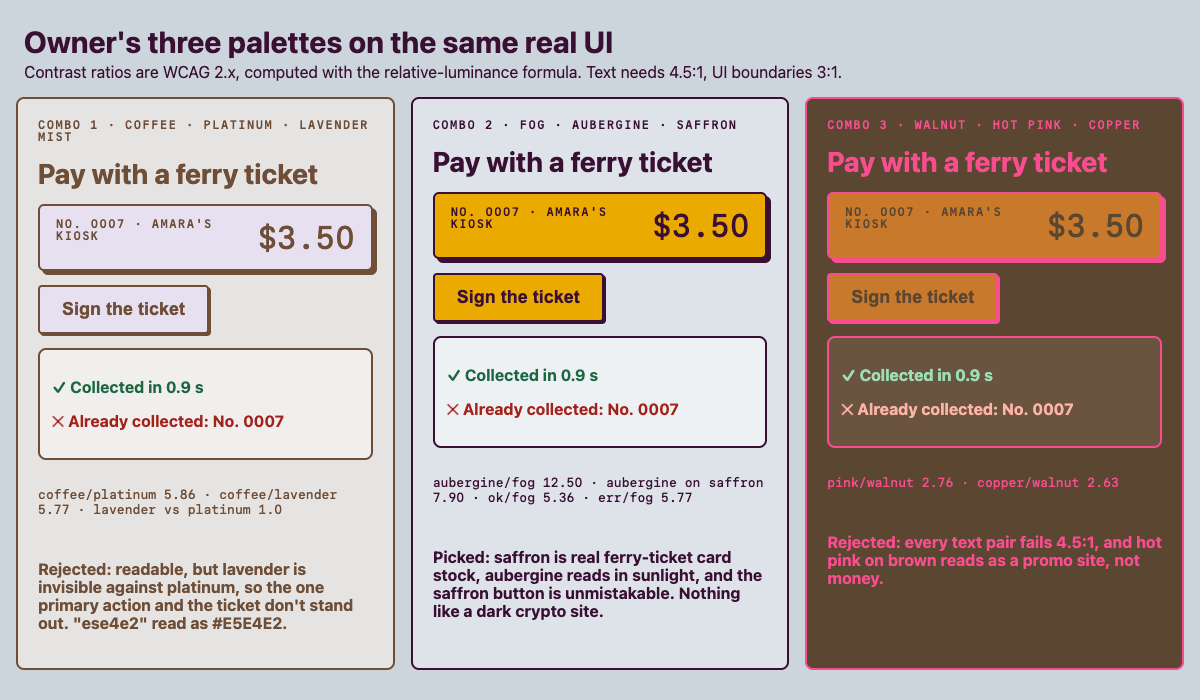
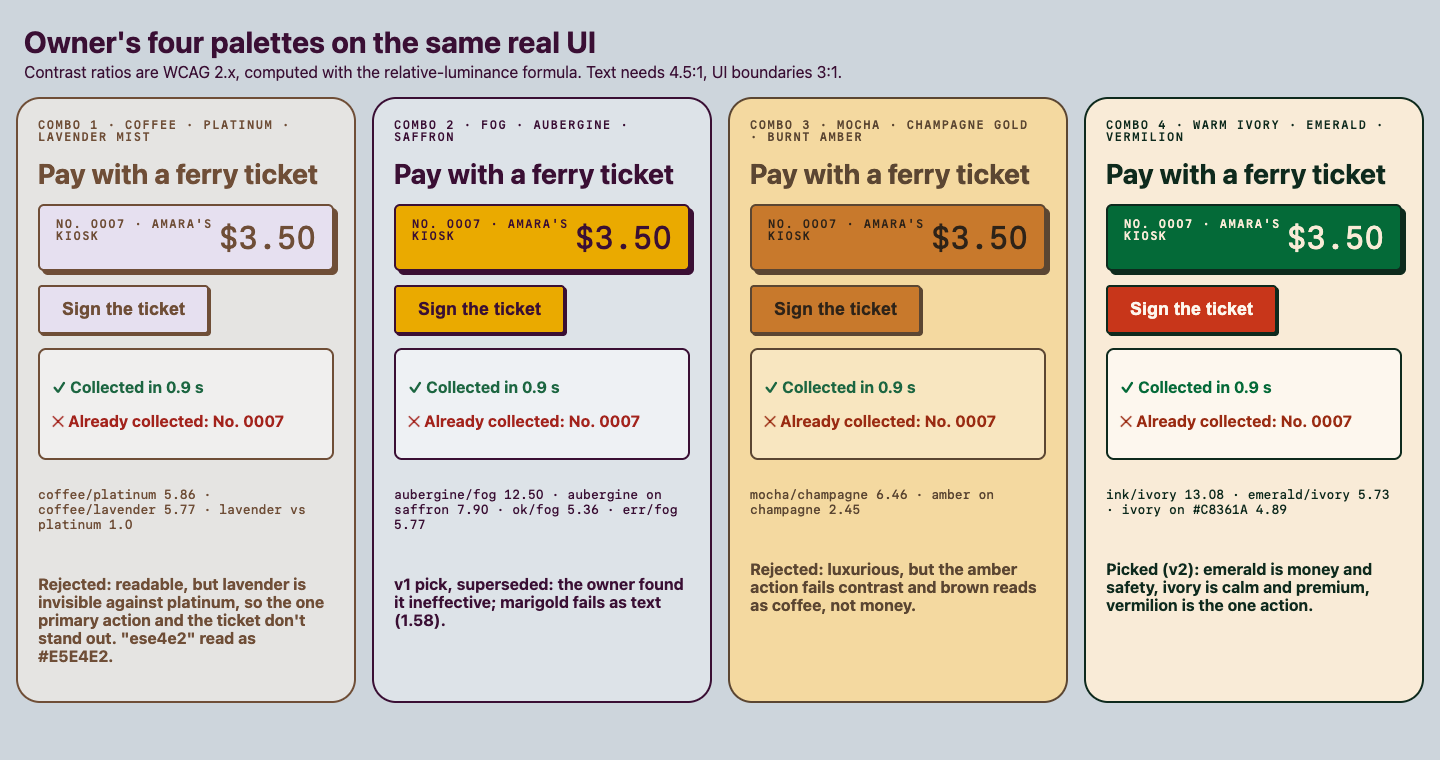
Redesign v2: persona brief, 4-combo swatch page, BRAND and references notes

diff --git a/design/swatches.html b/design/swatches.html
@@ -8,11 +8,14 @@
   @font-face { font-family: "Paper Mono"; src: url("../public/fonts/PaperMono.woff2") format("woff2"); font-weight: 100 800; }
   body { margin: 0; font-family: system-ui, sans-serif; background: #CDD5DC; color: #3A0F34; }
   h1 { font-size: 30px; margin: 24px 24px 4px; } .sub { margin: 0 24px 16px; }
-  .grid { display: grid; grid-template-columns: repeat(auto-fit, minmax(320px, 1fr)); gap: 16px; padding: 0 16px 24px; }
+  .grid { display: grid; grid-template-columns: repeat(auto-fit, minmax(280px, 1fr)); gap: 16px; padding: 0 16px 24px; }
   .pal { background: var(--base); color: var(--ink); border: 2px solid var(--ink); border-radius: 8px; padding: 20px; display: flex; flex-direction: column; gap: 14px; }
   .c1 { --base:#E5E4E2; --surface:#F0EFEE; --ink:#6F4E37; --accent:#E6E0F0; --on:#6F4E37; --ok:#1C6641; --err:#A3231C; }
   .c2 { --base:#DDE3E8; --surface:#EEF1F4; --ink:#3A0F34; --accent:#EAAA00; --on:#3A0F34; --ok:#1C6641; --err:#A3231C; }
-  .c3 { --base:#5B4632; --surface:#6A5440; --ink:#FA4D90; --accent:#C8792C; --on:#5B4632; --ok:#9BE0B4; --err:#FFB4A8; }
+  .c3 { --base:#F4D9A0; --surface:#F8E6C0; --ink:#5B4632; --accent:#C8792C; --on:#2E2318; --ok:#1C6641; --err:#9A2B12; }
+  .c4 { --base:#F9EBD7; --surface:#FDF7EE; --ink:#0E2A1D; --accent:#C8361A; --on:#FDF7EE; --ok:#046A38; --err:#9A2B12; }
+  .c4 .ticket { background:#046A38; color:#F9EBD7; }
+  .pal { border-radius: 24px; } .ticket, .btn { border-radius: 16px; } .btn { border-radius: 999px; box-shadow:none; border:0; }
   .label { font: 600 12px/1 "Paper Mono", monospace; letter-spacing: .12em; text-transform: uppercase; }
   h2 { margin: 0; font-size: 28px; }
   .ticket { background: var(--accent); color: var(--on); border: 2px solid var(--ink); border-radius: 6px; padding: 12px 16px; display: flex; justify-content: space-between; box-shadow: 4px 4px 0 var(--ink); }
@@ -25,7 +28,7 @@
 </style>
 </head>
 <body>
-<h1>Owner's three palettes on the same real UI</h1>
+<h1>Owner's four palettes on the same real UI</h1>
 <p class="sub">Contrast ratios are WCAG 2.x, computed with the relative-luminance formula. Text needs 4.5:1, UI boundaries 3:1.</p>
 <div class="grid">
   <section class="pal c1">
@@ -44,16 +47,25 @@
     <button class="btn">Sign the ticket</button>
     <div class="card"><p class="ok">✓ Collected in 0.9 s</p><p class="err">✕ Already collected: No. 0007</p></div>
     <p class="ratio">aubergine/fog 12.50 · aubergine on saffron 7.90 · ok/fog 5.36 · err/fog 5.77</p>
-    <p class="verdict">Picked: saffron is real ferry-ticket card stock, aubergine reads in sunlight, and the saffron button is unmistakable. Nothing like a dark crypto site.</p>
+    <p class="verdict">v1 pick, superseded: the owner found it ineffective; marigold fails as text (1.58).</p>
   </section>
   <section class="pal c3">
-    <span class="label">Combo 3 · walnut · hot pink · copper</span>
+    <span class="label">Combo 3 · mocha · champagne gold · burnt amber</span>
     <h2>Pay with a ferry ticket</h2>
     <div class="ticket"><span class="label">No. 0007 · Amara's kiosk</span><span class="amount">$3.50</span></div>
     <button class="btn">Sign the ticket</button>
     <div class="card"><p class="ok">✓ Collected in 0.9 s</p><p class="err">✕ Already collected: No. 0007</p></div>
-    <p class="ratio">pink/walnut 2.76 · copper/walnut 2.63</p>
-    <p class="verdict">Rejected: every text pair fails 4.5:1, and hot pink on brown reads as a promo site, not money.</p>
+    <p class="ratio">mocha/champagne 6.46 · amber on champagne 2.45</p>
+    <p class="verdict">Rejected: luxurious, but the amber action fails contrast and brown reads as coffee, not money.</p>
+  </section>
+  <section class="pal c4">
+    <span class="label">Combo 4 · warm ivory · emerald · vermilion</span>
+    <h2>Pay with a ferry ticket</h2>
+    <div class="ticket"><span class="label">No. 0007 · Amara's kiosk</span><span class="amount">$3.50</span></div>
+    <button class="btn">Sign the ticket</button>
+    <div class="card"><p class="ok">✓ Collected in 0.9 s</p><p class="err">✕ Already collected: No. 0007</p></div>
+    <p class="ratio">ink/ivory 13.08 · emerald/ivory 5.73 · ivory on #C8361A 4.89</p>
+    <p class="verdict">Picked (v2): emerald is money and safety, ivory is calm and premium, vermilion is the one action.</p>
   </section>
 </div>
 </body>

diff --git a/design/BRAND.md b/design/BRAND.md
@@ -23,24 +23,14 @@ Design translation:
 - serial-numbered tickets for vouchers;
 - one red sail for the one primary action.
 
-## Palette (redesign, 2026-11-08): owner combo 2, "Fog · Aubergine · Saffron"
-Swatch page with all three owner combos on the same real UI: `design/swatches.html` (screenshot `design/after/swatches.png`).
-
-| Combo | Colours | Verdict |
-|---|---|---|
-| 1 | coffee #6F4E37 · platinum #E5E4E2 (owner wrote "ese4e2") · lavender mist #E6E0F0 | Rejected. Lavender on platinum is 1.01:1, so the primary action and the ticket vanish. |
-| **2** | **fog #DDE3E8 · aubergine #3A0F34 · saffron #EAAA00** | **Picked.** Saffron is real ferry-ticket card stock. Aubergine on fog is 12.5:1, aubergine on saffron 7.9:1. Readable in daylight, nothing like a dark crypto site. |
-| 3 | walnut #5B4632 · hot pink #FA4D90 · copper #C8792C | Rejected. Pink on walnut is 2.76:1 and copper 2.63:1, and it reads as a promo site. |
-
-Tokens (`design/tokens.css`): base fog · surface #EEF1F4 (lifted fog) · sunk #CDD5DC · ink aubergine · muted #5C4A5A (6.28:1) · accent saffron, with aubergine text on it · ok #1C6641 (5.36:1) · err #A3231C (5.77:1) · night = aubergine, with on-night = fog.
-Rules: saffron is only ever a fill (as text on fog it's 1.58:1). Warnings are ink plus a "!" mark, never a fourth hue. No #FFFFFF or #000000.
-
-**Superseded:** palette A "Admiralty chart" (paper #F3EBDD / river ink #11313A / red-oxide sail #B0432A), with Fraunces, Instrument Sans and IBM Plex Mono.
-
-## Type (redesign)
-- **Display: Bricolage Grotesque** at 78% width and weight 800. A condensed, slightly quirky grotesque, like a printed ferry notice. OFL, via next/font.
-- **Text: Atkinson Hyperlegible Next.** Made for low-vision readers, so it suits a first-time user on a phone at a market stall. Body 17 px, lead 19 px. OFL.
-- **Mono: Paper Mono** (paper.design, OFL 1.1, self-hosted at `public/fonts/PaperMono.woff2`) for every amount, serial, label and all the ASCII art.
+## Palette, type and buttons (redesign v2, 2026-11-08): owner combo 4, "Ivory · Emerald · Vermilion"
+Full reasoning, the references and the persona brief: `design/persona-brief.md`. Swatch page with all four owner combos: `design/swatches.html`.
+- Core: warm ivory #F9EBD7 · emerald #046A38 · vermilion #E34222. Derived: ivory-50 #FDF7EE (cards), ivory-200/300 (wells, hairlines), ink #0E2A1D, action vermilion #C8361A (ivory text 4.89:1), err #9A2B12.
+- Type: Geist (one family) + Paper Mono for numbers and ASCII. Sentence case.
+- Buttons: a vermilion pill with an arrow chip (one per screen). Secondary is an ivory pill with a hairline.
+- Surfaces: flat ivory cards, 24 px radius, hairline all the way round, soft tactile shadow. The only gradient is on the hero heading text.
+- Tickets: emerald card stock like a banknote, with a vermilion COLLECTED stamp.
+- Superseded the same day: v1 fog/aubergine/saffron with Bricolage and Atkinson. Before that: palette A "Admiralty chart".
 
 ## ASCII animation
 Pure text frames in Paper Mono (`app/components/ascii.tsx`, frames in `ascii-frames.ts`, tested). They run on requestAnimationFrame at 10–30 fps, pause off-screen, render one static frame under reduced motion, and are aria-hidden with a text alternative.
@@ -55,7 +45,7 @@ Pure text frames in Paper Mono (`app/components/ascii.tsx`, frames in `ascii-fra
 - Motion: a boat on calm water. 120/200/320 ms, ease `cubic-bezier(.2,.8,.2,1)`, no bounce. The only loop is Doggett's three waiting dots (1.2 s). Everything goes static under `prefers-reduced-motion`.
 
 ## Mascot: Doggett
-- **Who:** Doggett, a chubby little Thames wherry with an aubergine hull, a saffron sail and stripe, big eyes with highlights, and a saffron blush (redrawn 2026-11-08).
+- **Who:** Doggett v2: a soft cream plush ferryman (fur texture, smooth face patch, dot eyes, vermilion blush) sitting in a little emerald wherry with a vermilion pennant. Inspired by the Meta Muse plush style the owner shared; hand-built SVG.
 - **Name:** from *Doggett's Coat and Badge*, the race for young Thames watermen rowed every year since 1715, the oldest rowing race in the world.
 - **Personality:** unflappable, cheerful, a little proud of always getting across. Doggett never panics in the dark; it just keeps rowing.
 - **Why it fits:** the product's job is getting money safely across a gap (the outage). A tiny, sturdy ferry that keeps going when the lights are out is the promise in one picture. It's simple enough to read at 32 px: hull, sail, two eyes.

diff --git a/design/persona-brief.md b/design/persona-brief.md
@@ -1,0 +1,32 @@
+# Redesign v2: brief for each persona (2026-11-08, after owner feedback)
+
+The owner's feedback on v1: the buttons and the overall feel weren't modern or premium, the colours weren't well chosen, and the references weren't really used. v2 restarts the visual language from the references below. Logic is unchanged.
+
+## The references, and what each one is used for
+| Reference | Used for |
+|---|---|
+| Paper Mono (`~/Downloads/paper-mono-v1.000`, the same v1.000 we self-host at `public/fonts/PaperMono.woff2`, OFL) | Every amount, serial, code and the ASCII river. Nothing else. |
+| Rare UI `fluid-orb` (`npx shadcn add swamimalode07/rare-ui/fluid-orb`) | Landing hero: a WebGL emerald orb behind Doggett. Vendored as `app/components/fluid-orb.tsx` (`cn` replaced by a plain join so no new deps). Its licence (MIT + Commons Clause + attribution) is honoured with a footer credit. |
+| elaya `ai-design-skills` (`landing-page-design`, `figma-designer`) | Rules: one typeface plus a mono for data; Tailwind type, spacing and radius scale; nested radius = outer - gap; flat surfaces; the only gradient is on the hero heading text; one accent under 80% saturation; borders all the way round or none; no eyebrow tags; no three equal cards; sentence case; Default/Hover/Pressed/Focus/Disabled states for buttons; contrast 4.5:1 for text and 3:1 for UI. |
+| Dribbble, crypto animation | Character-led 3D objects floating over soft colour fields, with depth and light. That's the hero composition: orb, plush mascot, and a real ticket drifting in front. No neon, no dark glow. |
+| Figma, web design trends 2026 | Taken: 3D and WebGL (orb), bold typography (72-96 px Geist hero), motion (float, ticket print, stamp), tactile soft UI for fintech (soft shadows on ivory cards), gamified feel (Play). Rejected for money: neo-brutalism (v1's hard offsets, now gone), retrofuturism neon, collage. |
+| Meta Muse mascot (owner image) | Doggett v2: a soft cream plush body with fur texture, a smooth face patch, dot eyes with highlights, a blush, simple limbs. He sits in a little emerald wherry with a vermilion pennant. |
+
+## Palette: owner combo 4, Warm Ivory #F9EBD7 · Emerald #046A38 · Vermilion #E34222
+- **[Brand designer]:** emerald says money and safe (a banknote), ivory says calm and premium and matches the plush mascot, vermilion is the one call to action. Of the four combos, this is the only one with a natural money colour and a natural action colour that don't fight.
+- Contrast: ink #0E2A1D on ivory 13.08:1. Emerald on ivory 5.73:1, both ways. Vermilion #E34222 with ivory text is only 3.53:1, so per the elaya rule the button uses the deeper vermilion #C8361A (4.89:1). The bright #E34222 is kept for stamps, the pennant and blush.
+- Rejected: combo 1 (mocha, platinum, lavender): lavender on platinum is 1.01:1, so there's no visible action. Combo 2 (ice silver, aubergine, marigold) was v1; the owner found it ineffective, and marigold fails as text (1.58:1). Combo 3 (mocha #5B4632, champagne gold #F4D9A0, burnt amber #C8792C): luxurious, but amber on champagne is 2.45:1 and brown reads as coffee, not money.
+
+## Type
+**[Brand designer]** Geist for everything (a single family, as elaya asks), Paper Mono for numbers. Headlines are Geist 600 at -0.035em, 48-96 px. Body is 16-20 px. Sentence case everywhere: v1's shouty uppercase mono labels are gone.
+
+## Buttons ([UI designer])
+- Primary: a vermilion pill, 48 px, Geist 600 16 px, with a round ivory arrow chip that slides 3 px on hover. Hover darkens and lifts. Press scales to 98%. Disabled is 45% opacity. Focus is a 2 px emerald ring. One per screen.
+- Secondary: an ivory pill with a hairline border and a soft shadow.
+- Text links: a 1 px underline at 40% that goes solid on hover.
+
+## Every screen answers three questions ([UX writer], [First-time user])
+Where am I (the role pill in the header), what do I do next (one vermilion button, plus Doggett's 3-step guide), is my money safe (the "Is my money safe?" section, devnet and test-money labels, explorer links, the program ID in the footer).
+
+## [Motion designer]
+Orb drift (WebGL, static under reduced motion). Doggett floats (5 s ease). The ASCII river and the ticket print stay. The COLLECTED stamp lands and the stub tears off.

diff --git a/design/references/NOTES.md b/design/references/NOTES.md
@@ -13,3 +13,9 @@ How it shows up in Wherry:
 - Bricolage Grotesque, condensed and very bold, for headlines that read like a printed ferry notice.
 - One saffron action per screen. Everything else is aubergine ink on fog.
 - Hard offset shadows (a ticket lying on a counter) instead of blurs.
+
+## v2 (after owner feedback)
+- `dribbble-crypto-animation.jpg`: character-led 3D objects floating over soft fields. That's where the orb + plush Doggett + drifting ticket hero comes from.
+- Figma "Web design trends 2026": we took 3D/WebGL, bold type, motion and tactile soft UI. We left out neo-brutalism (v1's hard shadows), neon retrofuturism and collage.
+- Rare UI fluid-orb is vendored as `app/components/fluid-orb.tsx` and credited in the footer.
+- elaya `figma-designer` rules applied: see `design/persona-brief.md`.
